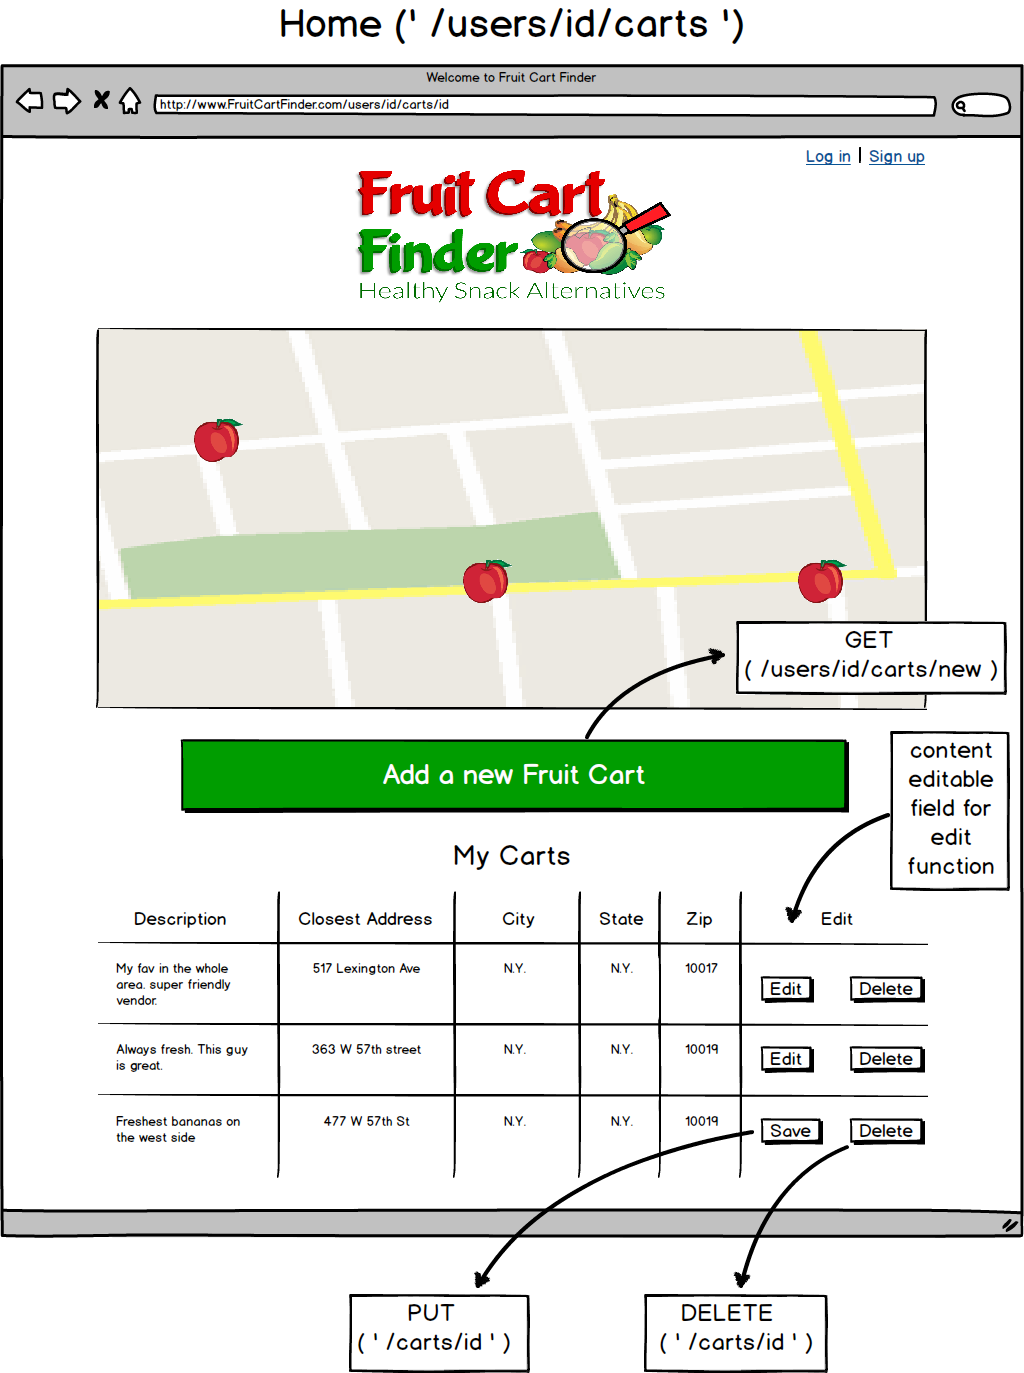
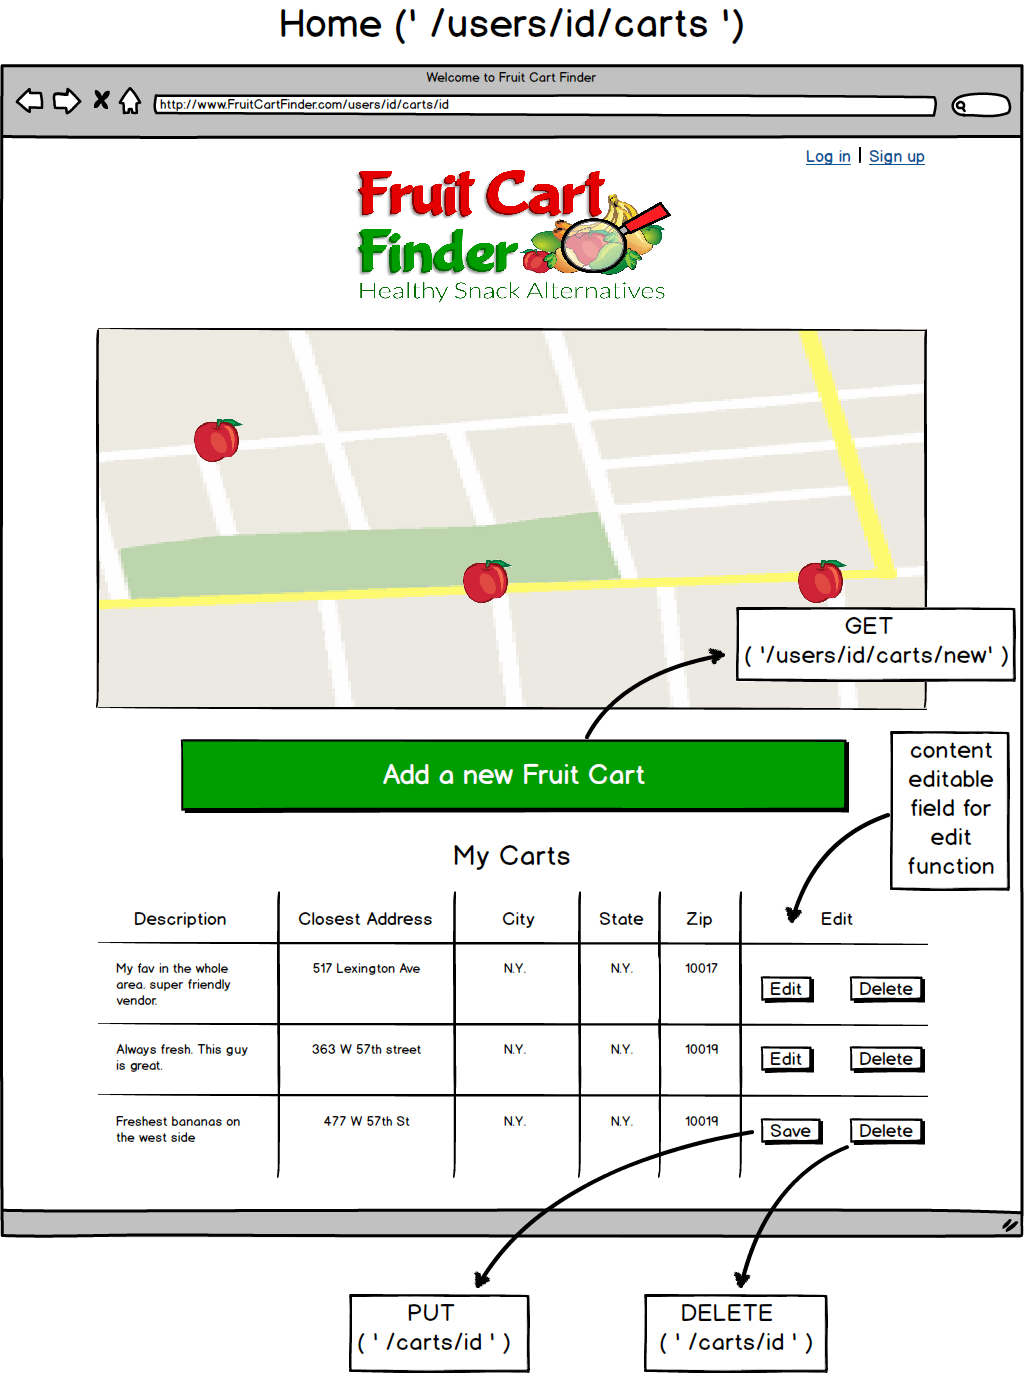
added routes to readme

Changed region(s): [[0.7188, 0.4283, 1.0, 0.52]]

diff --git a/README.md b/README.md
@@ -20,11 +20,34 @@ Access to fresh fruits as healthy alternatives can be hard to find in a city ful
 
 ##Artifacts
 ###Wireframes
-<img src="./images/wireframes/index.png"><br /><br /><br />
-<img src="./images/wireframes/signin.png"><br /><br /><br />
-<img src="./images/wireframes/signup.png"><br /><br /><br />
-<img src="./images/wireframes/carts.png"><br /><br /><br />
-<img src="./images/wireframes/new.png"><br /><br /><br />
+|Guest Home|Sign In|Sign Up|
+|---|---|---|
+|<img src="./images/wireframes/index.png">|<img src="./images/wireframes/signin.png">|<img src="./images/wireframes/signup.png">|
+|Users home|Add Cart|
+|---|---|
+|<img src="./images/wireframes/carts.png">|<img src="./images/wireframes/new.png">|
+
+###Routes
+|HTTP Verb|Route|Description|
+|---|---|---|
+|GET|(' / ')|Home route to the guest page|
+|GET|('/signin')|Sign in page|
+|GET|('/signup')|Sign up page|
+
+#####Users
+|HTTP Verb|Route|Description|
+|---|---|---|
+|GET|('/users/id/carts/new/')|Goes to the add cart page|
+|GET|('/users/id/carts')|Takes the user to their carts page|
+|POST|('/users/new')|Creates a new fruit finder account|
+
+#####Carts
+|HTTP Verb|Route|Description|
+|---|---|---|
+|POST|('/carts/')|Creates a cart entry|
+|PUT|('/carts/id')|Updates a cart entry|
+|DELETE|('/carts/id')|Destroys a cart entry|
+
 ###ERD
 <img src="./images/Fruit_Cart_Finder_ERD-2.png">
 
